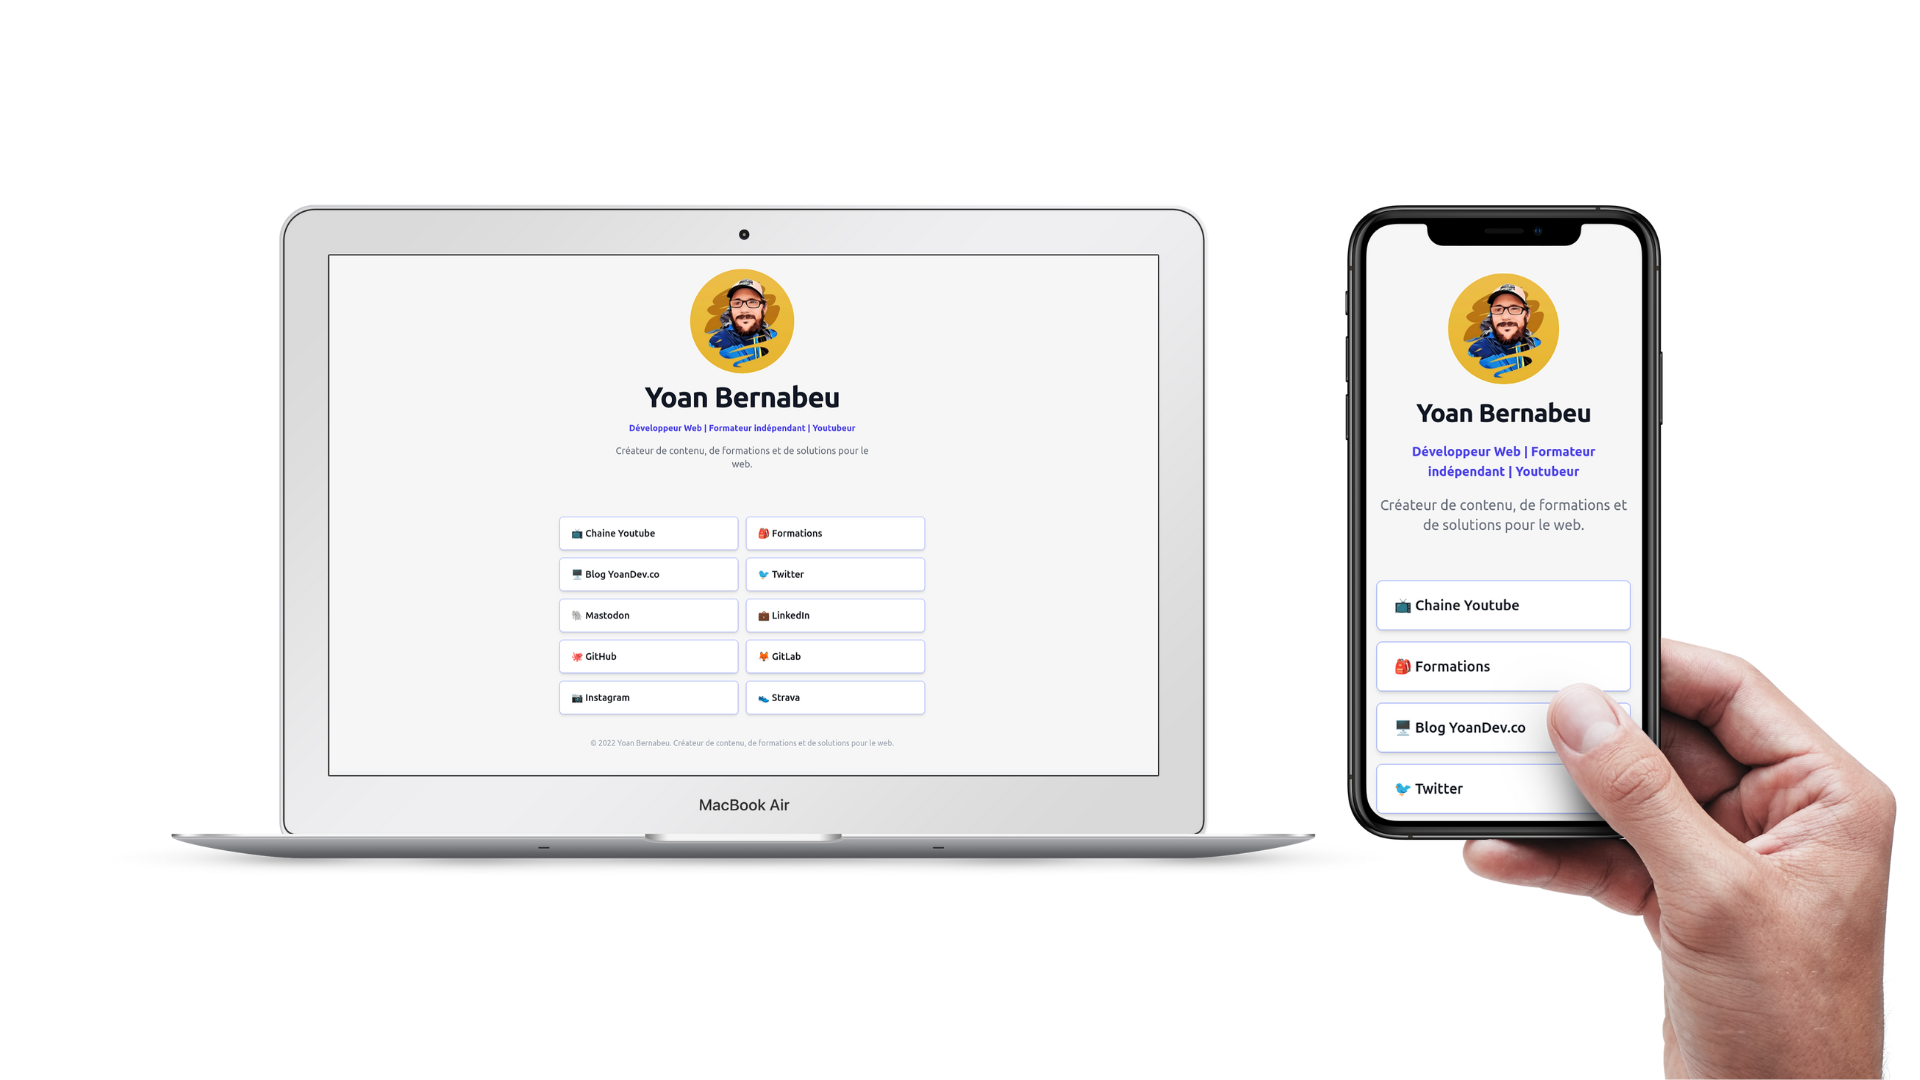
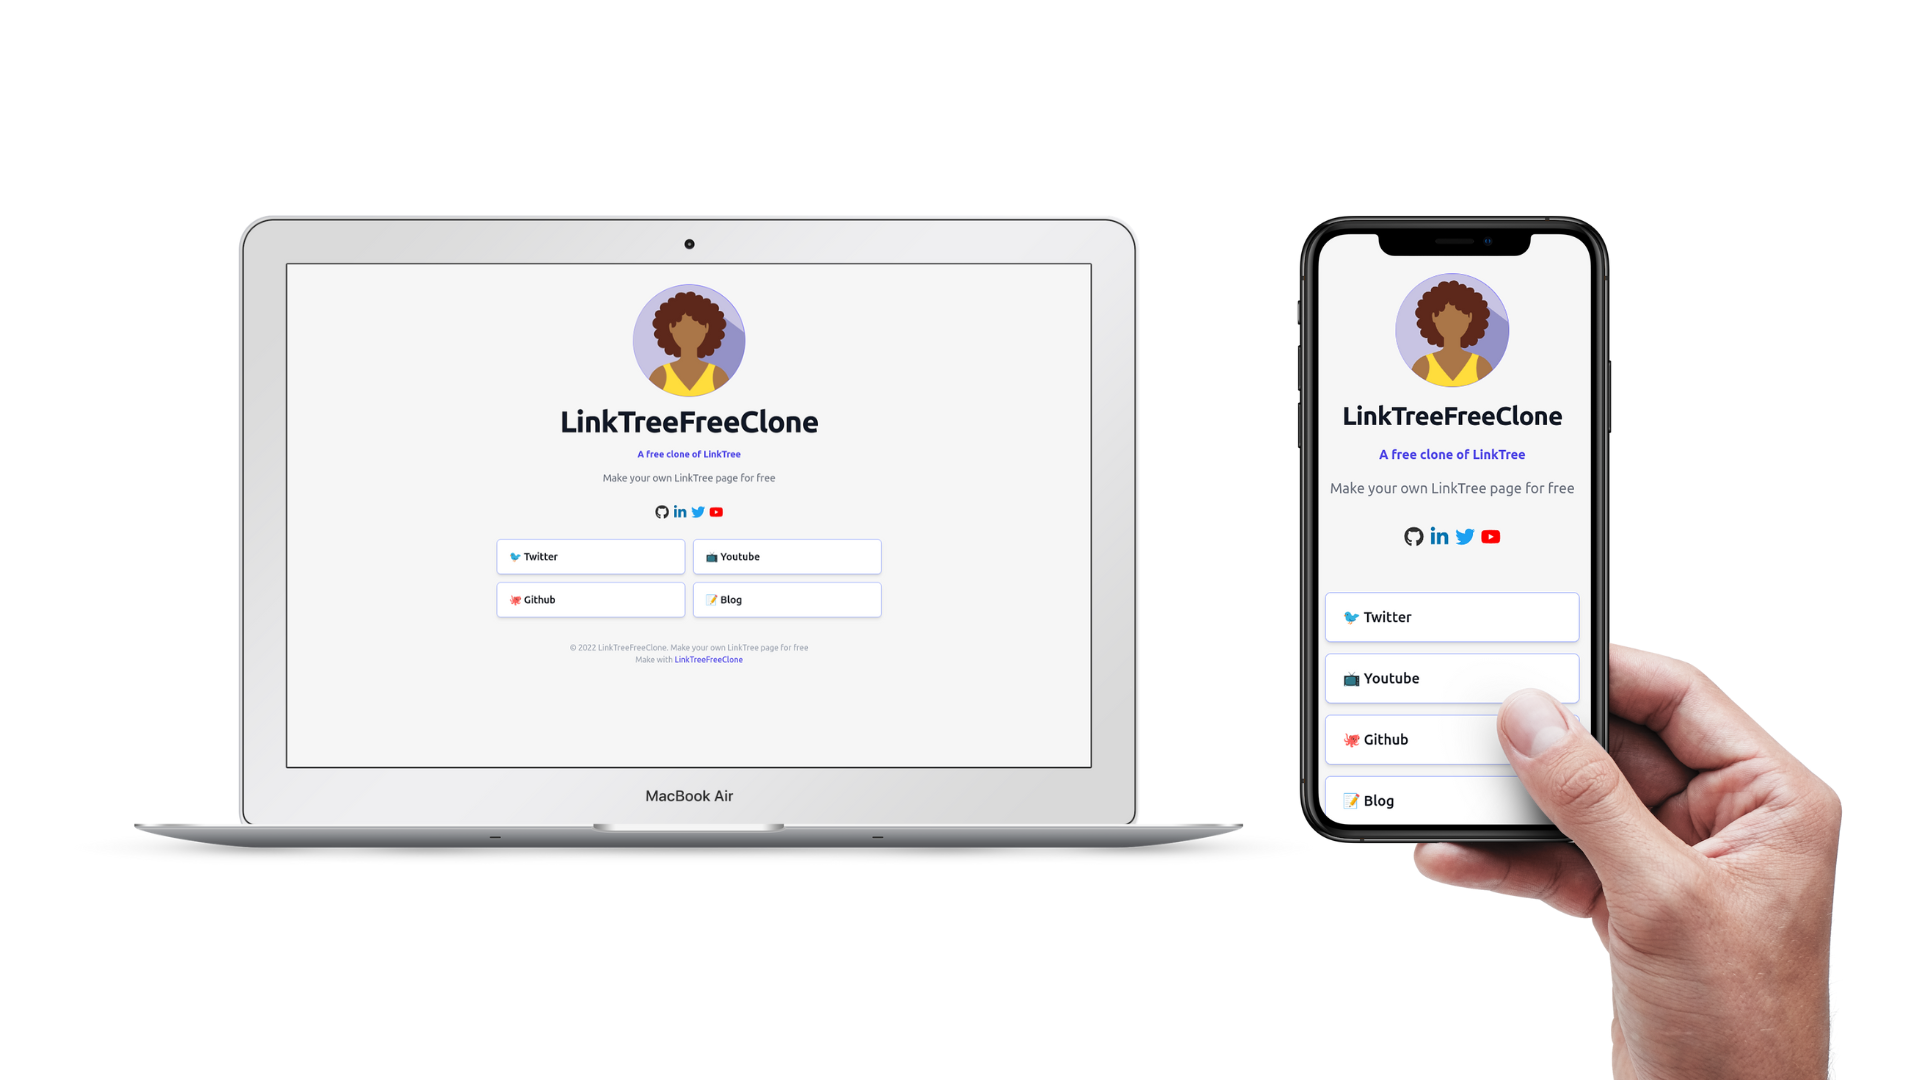
📖 DOC: Improve Demo

Changed region(s): [[0.0625, 0.1833, 1.0, 1.0]]

diff --git a/src/config.ts b/src/config.ts
@@ -1,3 +1,3 @@
-export const SUBTITLE = "This is my subtitle"
-export const TITLE = "Lastname Firstname"
-export const TAGLINE = "This is my tagline"
+export const SUBTITLE = "A free clone of LinkTree"
+export const TITLE = "LinkTreeFreeClone"
+export const TAGLINE = "Make your own LinkTree page for free"

diff --git a/README.md b/README.md
@@ -10,7 +10,7 @@ Feel free to use it as a template for your own projects.
 
 ## 👀 Demo
 
-You can see a demo of the project at [https://go.yoandev.co](https://go.yoandev.co/)
+You can see a demo of the project at [https://linktreefreeclone.yoandev.co/](https://linktreefreeclone.yoandev.co/)
 
 ## 🚀 Quick start
 
@@ -28,6 +28,7 @@ You can see a demo of the project at [https://go.yoandev.co](https://go.yoandev.
         * `href`: The URL of the link
 
     Example:
+    
     ```md
     ---
 
@@ -51,11 +52,12 @@ You can see a demo of the project at [https://go.yoandev.co](https://go.yoandev.
         * `url`: The URL of the link
 
     Example:
+
     ```md
     ---
     icon: linkedin
     url: https://linkedin.com/in/yoan-bernabeu
-    
+
     ---
     ```
 

diff --git a/src/pages/links/link2.md b/src/pages/links/link2.md
@@ -1,5 +1,5 @@
 ---
-title: Link 2
-emoji: 🚀
-href: https://ipsum.com
+title: Youtube
+emoji: 📺
+href: https://www.youtube.com/c/yoandevco
 ---

diff --git a/src/pages/links/link1.md b/src/pages/links/link1.md
@@ -1,5 +1,5 @@
 ---
-title: Link 1
-emoji: 📺
-href: https://lorem.com
+title: Twitter
+emoji: 🐦
+href: https://twitter.com/yOyO38
 ---

diff --git a/src/pages/links/link3.md b/src/pages/links/link3.md
@@ -1,0 +1,5 @@
+---
+title: Github
+emoji: 🐙
+href: https://github.com/yoanbernabeu/LinkTreeFreeClone
+---

diff --git a/src/pages/socials/github.md b/src/pages/socials/github.md
@@ -1,0 +1,4 @@
+---
+icon: github
+url: https://github.com/yoanbernabeu/LinkTreeFreeClone
+---

diff --git a/src/pages/links/link4.md b/src/pages/links/link4.md
@@ -1,0 +1,5 @@
+---
+title: Blog
+emoji: 📝
+href: https://yoandev.co
+---
